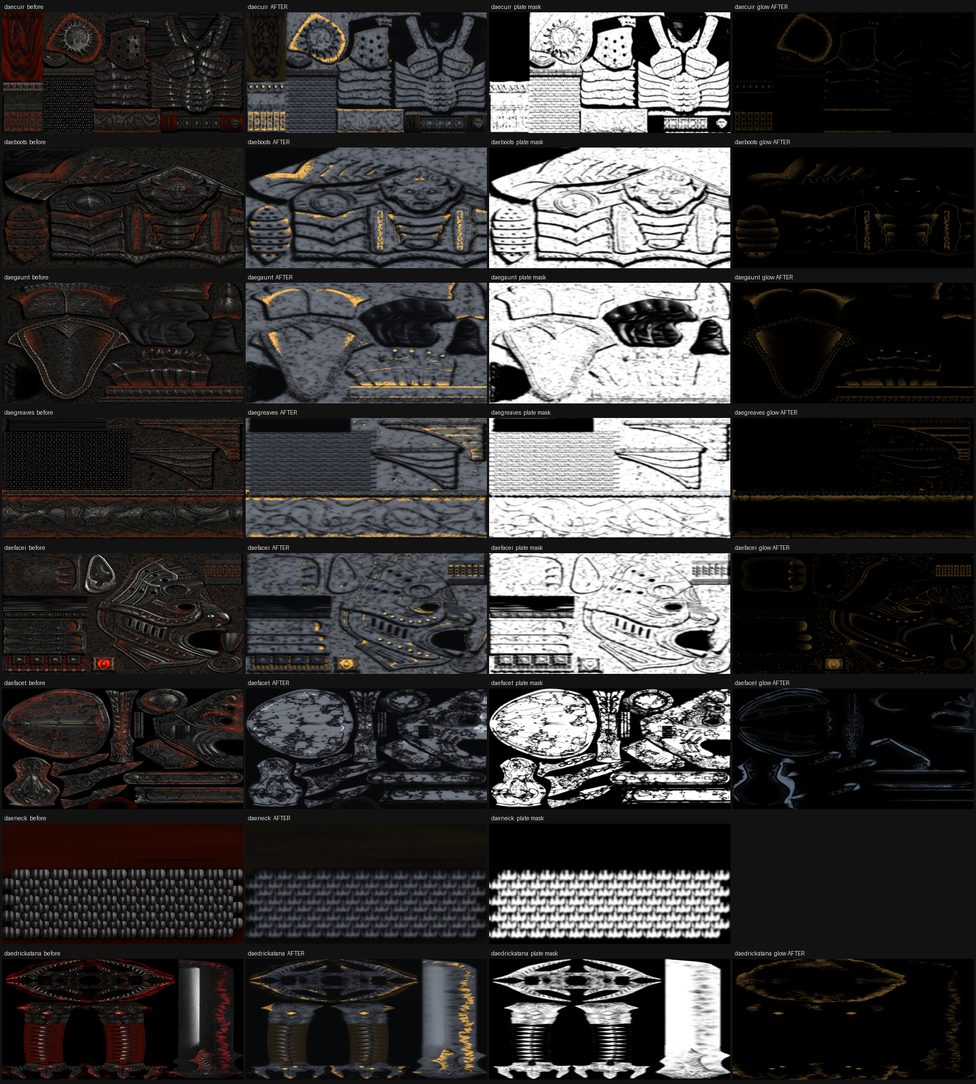
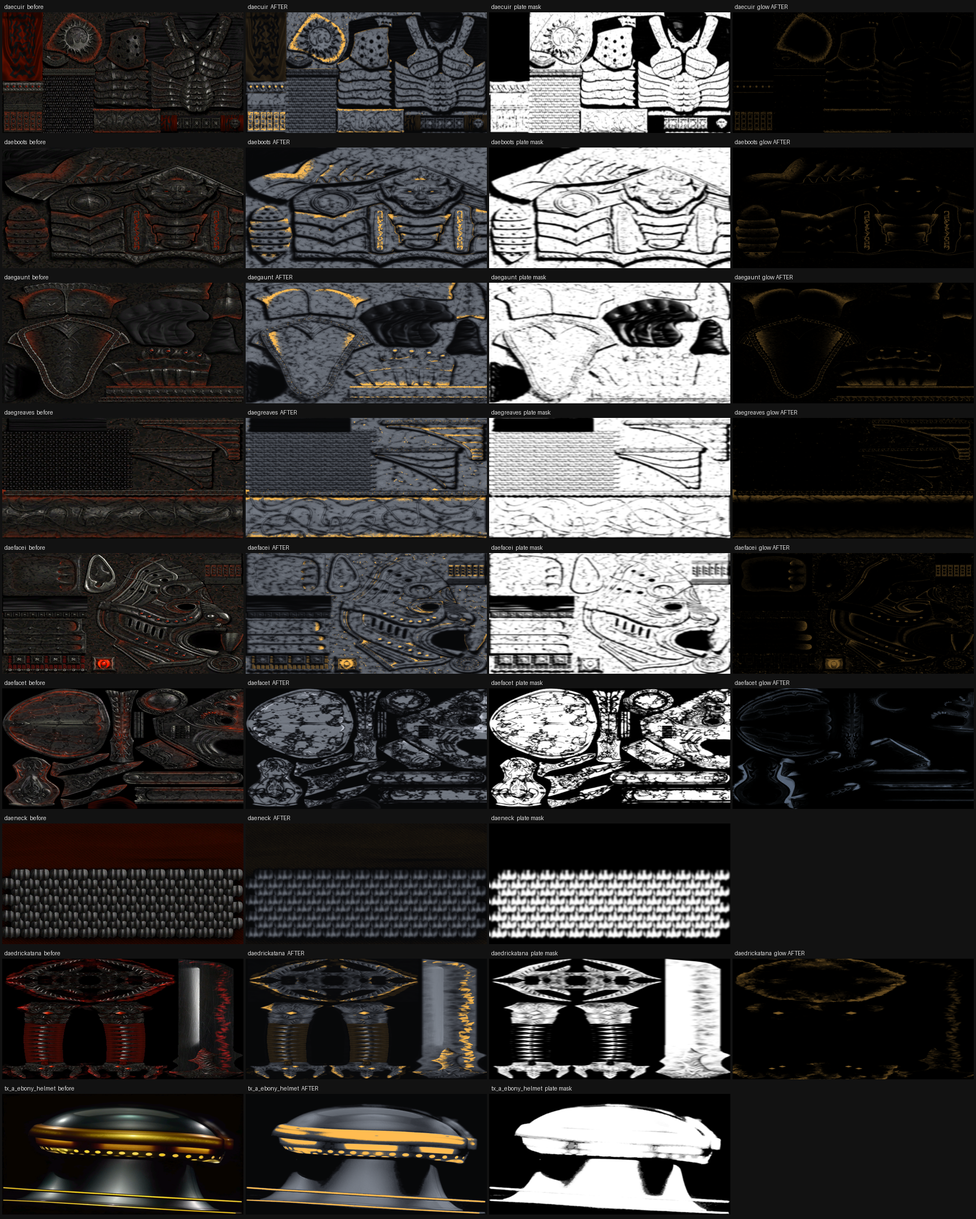
Marbling across the suit, and the closed helm
Two of Faig's calls. The dark mottling that was flagged as an open
question is the Daedric coral pattern coming through, and he wants it -
he liked it on the helm and asked for the cuirass to match. Grain goes
to 1.0 across the suit. It had been 0.35 back when the plate was bone
white and the veining read as cracked porcelain; at 0.50 it reads as
marble. The same number was wrong at one plate colour and right at
another, which was never a property of the veining.

And the helm shape: he picked the Ebony Closed Helm out of the icon
catalogue, with the Pragmata helmet as the material reference. That
piece needed the generator to stop assuming every mod names and means
its maps the same way, so PIECES now carries per-piece settings.

Its specular is a highlight map rather than a hardness map, so both the
plate mask and the tone have to come from the diffuse. Its trim is gold
rather than red, which the red detector barely sees. And it needed a
midtone gamma, which is the general lesson: ebony's median luminance is
0.114, the percentile stretch leaves it at 0.136, and the contrast
curve crushes that to 0.019 - a black helmet with gold on it, twice,
before the number was measured instead of guessed.

Cost of overriding that texture, counted rather than assumed: the ebony
closed helm exists in three places in the game plus a test crate and one
scripted NPC. Five items, one of them the player's.

diff --git a/tools/scripts/make_armour.py b/tools/scripts/make_armour.py
@@ -60,10 +60,37 @@ from effective import parse_cfg  # noqa: E402
 PLAY_CFG = r"D:/Backups/OneDrive/All/Documents/My Games/OpenMW/play/openmw.cfg"
 FOLDER = "jy_daedric"
 
-# The worn set from Daedric Lord Armor, plus the weapon it ships. Every one of
-# these has a specular map, which is what the conversion runs on.
-PIECES = ("daecuir", "daeboots", "daegaunt", "daegreaves",
-          "daefacei", "daefacet", "daeneck", "daedrickatana")
+# Every piece names its own maps, because they do not agree across mods. The
+# defaults are Daedric Lord Armor's; anything else states what it differs in.
+#
+#   folder      subdirectory under Textures/, "" for the root
+#   spec        suffix of the specular map
+#   plate_from  "spec" or "diffuse" - which map decides plate against mechanism
+#   trim        "red" or "warm" - what the gold is looking for in the original
+#   gold        False keeps the trim but makes it steel
+DEFAULTS = {"folder": "", "spec": "_s", "normal": "_n", "glow": "_g",
+            "plate_from": "spec", "trim": "red", "gold": True}
+
+PIECES = (
+    {"stem": "daecuir", "folder": "jy_daedric"},
+    {"stem": "daeboots", "folder": "jy_daedric"},
+    {"stem": "daegaunt", "folder": "jy_daedric"},
+    {"stem": "daegreaves", "folder": "jy_daedric"},
+    {"stem": "daefacei", "folder": "jy_daedric"},
+    # Faig on the Face of Terror: the colours are right, take the gold off.
+    {"stem": "daefacet", "folder": "jy_daedric", "gold": False},
+    {"stem": "daeneck", "folder": "jy_daedric"},
+    {"stem": "daedrickatana", "folder": "jy_daedric"},
+    # The closed helm Faig chose over the horned one, so that the silhouette is
+    # a sealed dome rather than a face. Three things differ. Its specular map is
+    # a highlight map rather than a hardness map - almost black, with a few
+    # glints - so the plate mask has to come from the diffuse instead, or the
+    # whole helm would be called mechanism and come out black. Its trim is gold
+    # rather than red, which the red detector barely sees. And the map is named
+    # `_spec`.
+    {"stem": "tx_a_ebony_helmet", "spec": "_spec",
+     "plate_from": "diffuse", "trim": "warm"},
+)
 
 # The palette. Four colours and two ramps: a plate lit and a plate in shadow, a
 # mechanism lit and in shadow. Gold sits on top of whichever it lands on.
@@ -158,7 +185,8 @@ def _relight(normal_map, tighten=18.0):
 
 def convert_diffuse(diffuse_path, spec_path, contrast=1.15, blur=1.6,
                     grain=0.35, detail=0.25, normal_path=None,
-                    kant=0.75, curve=1.0, gloss=0.45, gold_on=True):
+                    kant=0.75, curve=1.0, gloss=0.45, gold_on=True,
+                    plate_from="spec", trim_mode="red"):
     dif = load(diffuse_path)
     size = (dif.shape[1], dif.shape[0])
     spec = load(spec_path, size) if spec_path else dif
@@ -170,8 +198,38 @@ def convert_diffuse(diffuse_path, spec_path, contrast=1.15, blur=1.6,
     s_n = _norm(spec_l, np.percentile(spec_l, 2), np.percentile(spec_l, 98))
     d_n = _norm(dif_l, np.percentile(dif_l, 2), np.percentile(dif_l, 98))
 
-    plate = _blur(_smooth(_norm(s_n, 0.34, 0.66)), blur)
+    if plate_from == "diffuse":
+        # For a piece whose specular is a highlight map, the diffuse is the only
+        # thing that says where the object is at all: the unused parts of the
+        # sheet are black and the shell is not.
+        #
+        # And the percentiles have to be taken over the object rather than the
+        # sheet. Half of this helm's page is empty black, which drags the low
+        # end down and leaves an already-dark ebony shell normalising to almost
+        # nothing - the first attempt came out a black helmet with gold on it.
+        body = dif_l > 0.02
+        if body.sum() > 64:
+            d_n = _norm(dif_l, np.percentile(dif_l[body], 3),
+                        np.percentile(dif_l[body], 97))
+            # Then put the object's midtone at mid grey. Stretching the ends is
+            # not enough for a source this dark: ebony's median luminance is
+            # 0.114, which survives the stretch at 0.136 and the contrast curve
+            # then crushes it to 0.019 - a black helmet with gold on it, which
+            # is what the first two attempts produced. One gamma fixes it, and
+            # it generalises: any piece, however dark its own paint, arrives at
+            # the palette in the middle of the range the palette expects.
+            median = float(np.median(d_n[body]))
+            if 0.02 < median < 0.98:
+                d_n = d_n ** (np.log(0.5) / np.log(median))
+        plate = _blur(_smooth(_norm(d_n, 0.10, 0.35)), blur)
+    else:
+        plate = _blur(_smooth(_norm(s_n, 0.34, 0.66)), blur)
 
+    # A specular map that is really a highlight map is no good for tone either -
+    # it is black almost everywhere, and mixing it in drags the whole piece down
+    # to black. The same per-piece decision covers both.
+    if plate_from == "diffuse":
+        detail = 1.0
     tone = np.clip((1.0 - detail) * s_n + detail * d_n, 0.0, 1.0)
     form, fine = _split(tone, max(dif.shape[0], dif.shape[1]) / 90.0)
     tone = np.clip(form + fine * grain, 0.0, 1.0)
@@ -186,8 +244,13 @@ def convert_diffuse(diffuse_path, spec_path, contrast=1.15, blur=1.6,
     mech = MECH_DARK + (MECH - MECH_DARK) * tone[..., None]
     body = mech + (ceramic - mech) * plate[..., None]
 
-    redness = dif[..., 0] - np.maximum(dif[..., 1], dif[..., 2])
-    trim = _smooth(np.clip((redness - 0.05) / 0.13, 0.0, 1.0))
+    if trim_mode == "warm":
+        # Gold is red *and* green against little blue, so the red detector
+        # barely registers it. This one finds any warm hue.
+        signal = np.minimum(dif[..., 0], dif[..., 1]) - dif[..., 2]
+    else:
+        signal = dif[..., 0] - np.maximum(dif[..., 1], dif[..., 2])
+    trim = _smooth(np.clip((signal - 0.05) / 0.13, 0.0, 1.0))
     # Gold belongs on metal. Red in the source marks the hot veins, but it also
     # marks dyed leather and cloth - the collar strap and the cuirass's fabric
     # panel are red end to end, and unqualified this turned both solid gold.
@@ -216,17 +279,22 @@ def convert_glow(glow_path, gold_on=True):
     return g, np.concatenate([rgb, g[..., 3:]], axis=2)
 
 
-def find_folder(cfg_path, skip):
-    """The last data directory in the load order holding Textures/jy_daedric."""
+def data_dirs(cfg_path, skip):
+    """The load order's data directories, ours removed."""
     data, _ = parse_cfg(cfg_path)
     skip = {os.path.normcase(os.path.abspath(s)) for s in skip}
+    return [d for d in data
+            if os.path.normcase(os.path.abspath(d)) not in skip]
+
+
+def find_texture(dirs, folder, name):
+    """The file the engine would use: the last directory that has it wins."""
     hit = None
-    for directory in data:
-        if os.path.normcase(os.path.abspath(directory)) in skip:
-            continue
-        candidate = os.path.join(directory, "Textures", FOLDER)
-        if os.path.isdir(candidate):
-            hit = candidate
+    for directory in dirs:
+        for ext in (".dds", ".tga"):
+            path = os.path.join(directory, "Textures", folder, name + ext)
+            if os.path.exists(path):
+                hit = path
     return hit
 
 
@@ -256,7 +324,7 @@ def main():
     ap.add_argument("--out", default=None)
     ap.add_argument("--preview-dir", default=os.path.join(root, "tools", "armour"))
     ap.add_argument("--contrast", type=float, default=1.15)
-    ap.add_argument("--grain", type=float, default=0.35,
+    ap.add_argument("--grain", type=float, default=1.0,
                     help="how much of the original fine veining survives")
     ap.add_argument("--detail", type=float, default=0.25,
                     help="diffuse weight in the tone; the rest is specular")
@@ -272,46 +340,44 @@ def main():
 
     out_root = args.out or os.path.join(root, "tools", "build",
                                         f"armour-{args.profile}")
-    out_dir = os.path.join(out_root, "Textures", FOLDER)
-    src = find_folder(args.config, skip=[out_root])
-    if not src:
-        raise SystemExit(f"no Textures/{FOLDER} in the load order - is Daedric "
-                         f"Lord Armor installed?")
-    print(f"source: {src}")
-
+    dirs = data_dirs(args.config, skip=[out_root])
     os.makedirs(args.preview_dir, exist_ok=True)
-    if args.write:
-        os.makedirs(out_dir, exist_ok=True)
 
     rows, written = [], 0
-    for stem in PIECES:
-        diffuse = os.path.join(src, stem + ".dds")
-        if not os.path.exists(diffuse):
-            print(f"  ! missing, skipped: {stem}")
+    for spec_row in PIECES:
+        p = dict(DEFAULTS, **spec_row)
+        stem, folder = p["stem"], p["folder"]
+        diffuse = find_texture(dirs, folder, stem)
+        if not diffuse:
+            print(f"  ! not in the load order, skipped: {folder}/{stem}")
             continue
-        spec = os.path.join(src, stem + "_s.dds")
+        out_dir = os.path.join(out_root, "Textures", folder)
+        if args.write:
+            os.makedirs(out_dir, exist_ok=True)
+        specular = find_texture(dirs, folder, stem + p["spec"])
+        normal = find_texture(dirs, folder, stem + p["normal"])
+        glow = find_texture(dirs, folder, stem + p["glow"]) if p["glow"] else None
+
         before, after, plate = convert_diffuse(
-            diffuse, spec if os.path.exists(spec) else None,
-            args.contrast, args.blur, args.grain, args.detail,
-            os.path.join(src, stem + "_n.dds"),
-            args.kant, args.curve, args.gloss, stem not in NO_GOLD)
+            diffuse, specular, args.contrast, args.blur, args.grain,
+            args.detail, normal, args.kant, args.curve, args.gloss,
+            p["gold"], p["plate_from"], p["trim"])
         panels = [("before", before), ("AFTER", after),
                   ("plate mask", np.dstack([plate] * 3))]
         note = ""
-        glow = os.path.join(src, stem + "_g.dds")
-        if os.path.exists(glow):
-            g_before, g_after = convert_glow(glow, stem not in NO_GOLD)
+        if glow:
+            g_before, g_after = convert_glow(glow, p["gold"])
             panels.append(("glow AFTER", g_after))
             note = " + glow"
         rows.append([stem] + panels)
-        print(f"  {stem:16} {before.shape[1]}x{before.shape[0]}{note}")
+        print(f"  {stem:22} {before.shape[1]}x{before.shape[0]}"
+              f"{'' if specular else '  (no specular)'}{note}")
         if args.write:
             # Opaque, and the originals are DXT1. Same format, same footprint.
-            write_dxt(os.path.join(out_dir, stem + ".dds"),
-                      after * 255.0, "dxt1")
+            write_dxt(os.path.join(out_dir, stem + ".dds"), after * 255.0, "dxt1")
             written += 1
-            if os.path.exists(glow):
-                write_dxt(os.path.join(out_dir, stem + "_g.dds"),
+            if glow:
+                write_dxt(os.path.join(out_dir, stem + p["glow"] + ".dds"),
                           g_after * 255.0, "dxt1")
                 written += 1
 

diff --git a/tools/reports/armour.md b/tools/reports/armour.md
@@ -91,19 +91,49 @@ unfinished. It goes to a brighter cool steel instead, and the glow follows the
 same decision, since amber piping on a helm with no gold piping would
 contradict itself.
 
-## The open question, and it is not mine to answer
+## The marbling was the right answer, and it is settled
 
-The large dark mottling on the helm and cuirass survives all of that, and it is
-not noise: it is the Daedric coral pattern, which the artist painted with **low
-specular**, so the mask correctly calls it not-plate and it comes out near
-black.
+The open question was the dark mottling: the Daedric coral pattern, painted
+low-specular, coming through as veining on a pale plate. It was flagged as a
+look rather than a defect, and Faig's call went the other way from the guess -
+he liked it on the helm and asked for the **cuirass to match**.
 
-So the plates are white with dark organic veining rather than the clean panels
-of the reference. That reads as a deliberate material to me and it is a strong
-note of the original — but it is a look, not a bug, and looks are Faig's call.
-If he wants the plates cleaner, the lever is the `plate` threshold in
-`_norm(s_n, 0.34, 0.66)`: widening the low end pulls the coral back into
-ceramic.
+The cuirass had less of it because the grain was dialled to 0.35, back when the
+plate was bone white and the veining read as cracked porcelain. At 0.50 it does
+not: it reads as marble. Grain is now **1.0** across the suit, and the character
+is consistent from helm to boot.
+
+Worth keeping: the same number was wrong at one plate colour and right at
+another. It was never a property of the veining.
+
+## The closed helm
+
+Faig chose the **Ebony Closed Helm** shape over the horned Daedric one, from a
+catalogue built out of the game's own inventory icons - 47 helmets, real
+pictures rather than mesh names. Reference for the material: the Pragmata
+helmet, which is a pale shell with dark mechanism and yellow accents.
+
+Its source is `tx_a_ebony_helmet`, replaced in this list by Morrowind Enhanced
+Textures, and it needed three per-piece settings and one new step:
+
+* **`plate_from: diffuse`.** Its specular map is a *highlight* map - near black
+  with a few glints - not a hardness map. Used as the plate mask it calls the
+  whole helm mechanism; used as tone it drags the piece to black.
+* **`trim: warm`.** Its trim is gold, which is red *and* green against little
+  blue, so the red detector barely registers it.
+* **`spec: _spec`.** Different mod, different suffix.
+* **A midtone gamma.** This is the general lesson. Ebony's median luminance is
+  0.114; stretching the percentiles leaves it at 0.136, and the contrast curve
+  then crushes that to **0.019** - a black helmet with gold on it, which is what
+  two attempts produced before the number was measured rather than guessed. One
+  gamma puts the object's median at mid grey, and any piece however dark its own
+  paint now arrives where the palette expects it.
+
+**Cost of overriding that texture, measured rather than assumed:** the ebony
+closed helm exists in exactly **three places** in the game - the Urshilaku
+burial and two Vivec vaults - plus a test crate and one scripted NPC. So the
+five ebony helms in the world become Zenaric silver, and one of them is the
+player's.
 
 ## Scope, deliberately narrow for this iteration
 
